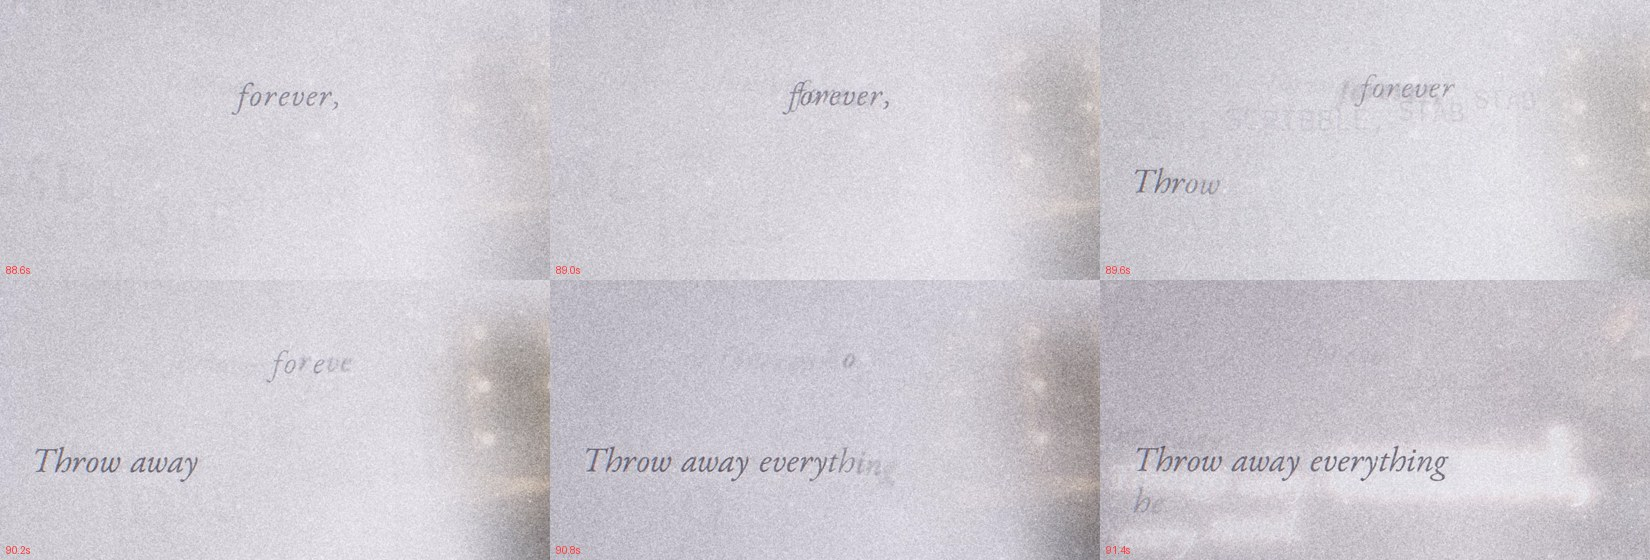
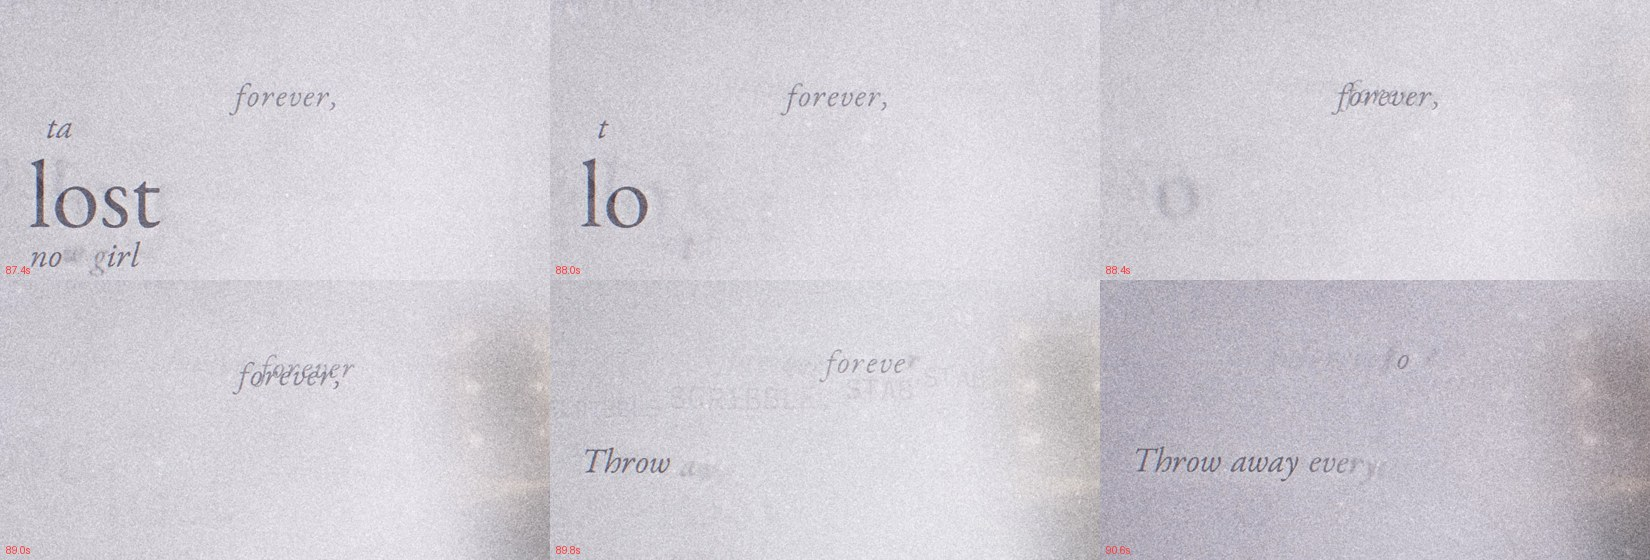
Fix the second 'forever' timing (it was 0.65 s late and cut short)
Whisper's word edges gave the first 'forever,' 2.2 s and squeezed the
second into 0.5 s before 'Throw'. Pitch tracking (voiced 86.62-87.54 and
88.19-89.25) and two tight Whisper re-runs agree on 86.5-87.6 and
88.1-89.2.

- align.py: word-level pins in overrides.json alongside line pins
- overrides.json: line 20 words 4-5 pinned to the consensus
- only those two words changed; chunk re-rendered for review

Claude-Session: https://claude.ai/code/session_013aPae8dR11r7xw8o95d9Yi

diff --git a/storyboard/index.html b/storyboard/index.html
@@ -150,7 +150,7 @@ ol.steps li::marker { font: 600 0.85rem var(--mono); color: var(--ink-2); }
   </video>
   <figcaption><b>Refrain I: Stay lost now girl (chunk)</b>
     <span class="tc">1:24.2 → 1:32.5 · bars 23–26</span>
-    <span class="note">Revised: the second &#x27;forever&#x27; peels off the first as a copy, drifts slowly, outlasts the rest of the line, and is the last thing unwritten, letter by letter, as &#x27;Throw away everything&#x27; arrives. The full Refrain I clip below has the old version of this moment. <a href="renders/refrain_forever_contact.jpg">Contact sheet</a></span></figcaption>
+    <span class="note">Revised: the second &#x27;forever&#x27; peels off the first as a copy, drifts slowly, outlasts the rest of the line, and is the last thing unwritten, letter by letter, as &#x27;Throw away everything&#x27; arrives. Timing corrected: the second &#x27;forever&#x27; is sung at 88.1 s and held ~1.1 s (it had been placed 0.65 s late). The full Refrain I clip below has the old version of this moment. <a href="renders/refrain_forever_contact.jpg">Contact sheet</a></span></figcaption>
 </figure>
 <figure class="render" id="render-refrain_i">
   <video controls playsinline preload="metadata" poster="renders/refrain_i_poster.jpg" width="1280" height="720">
@@ -631,7 +631,7 @@ ol.steps li::marker { font: 600 0.85rem var(--mono); color: var(--ink-2); }
 })();
 </script>
 <script>
-const D = {"duration":493.6209977324263,"loud_t":0.5,"loud":[-47.0,-80.9,-60.6,-44.5,-39.1,-36.3,-33.6,-30.7,-28.0,-27.2,-27.0,-26.6,-26.8,-26.0,-24.4,-24.1,-24.0,-23.0,-23.1,-21.6,-19.4,-18.7,-19.1,-21.8,-23.9,-24.4,-25.6,-25.4,-24.3,-24.4,-23.7,-23.2,-22.7,-23.0,-23.6,-22.5,-20.9,-20.0,-19.8,-19.4,-20.0,-20.2,-19.6,-19.3,-19.4,-19.2,-19.6,-21.1,-21.5,-21.8,-20.6,-19.3,-19.1,-19.4,-20.7,-20.8,-18.9,-18.8,-20.3,-19.6,-19.8,-19.6,-18.9,-20.0,-19.6,-19.3,-19.3,-20.2,-21.0,-20.3,-19.4,-19.6,-19.8,-18.8,-19.3,-19.7,-19.1,-19.8,-20.5,-20.8,-20.3,-20.5,-21.3,-20.9,-19.7,-20.1,-21.0,-19.7,-19.5,-19.1,-18.7,-18.6,-18.3,-19.2,-19.5,-19.6,-19.4,-19.4,-19.2,-18.7,-20.4,-20.7,-19.5,-19.4,-19.7,-18.3,-17.4,-19.4,-21.7,-22.3,-22.4,-22.1,-21.6,-21.0,-19.7,-19.1,-18.8,-18.9,-19.1,-18.2,-18.4,-19.2,-18.6,-18.2,-18.2,-18.9,-18.6,-17.8,-17.4,-17.2,-17.7,-18.1,-19.0,-18.8,-18.6,-18.7,-17.7,-18.1,-18.6,-18.9,-18.6,-17.8,-17.5,-17.6,-18.3,-18.1,-17.7,-17.6,-18.0,-18.4,-17.7,-18.0,-17.8,-17.4,-17.8,-17.6,-17.2,-17.6,-18.4,-17.7,-17.5,-17.8,-18.6,-18.9,-17.7,-17.5,-17.3,-16.9,-17.1,-17.7,-18.2,-18.1,-17.5,-17.8,-18.1,-17.3,-17.4,-17.7,-17.1,-17.1,-16.9,-17.8,-17.6,-17.2,-17.5,-17.5,-17.9,-17.7,-17.5,-17.0,-16.9,-17.4,-17.5,-18.4,-18.9,-18.3,-17.1,-17.1,-17.4,-16.6,-17.3,-17.6,-16.9,-16.1,-16.5,-17.4,-17.1,-17.2,-17.3,-17.0,-16.1,-16.2,-16.9,-16.7,-17.3,-17.4,-16.4,-15.7,-16.1,-17.4,-17.6,-18.0,-18.2,-16.4,-15.7,-15.9,-15.7,-16.2,-17.5,-18.1,-18.7,-18.6,-19.4,-18.0,-16.2,-17.6,-18.0,-18.1,-18.2,-22.3,-22.2,-17.0,-16.5,-17.2,-17.2,-16.7,-17.2,-17.2,-17.6,-18.2,-17.6,-18.1,-17.2,-18.1,-19.3,-17.9,-17.7,-17.0,-16.5,-15.8,-15.5,-16.1,-17.0,-17.5,-17.4,-17.9,-17.2,-17.6,-18.6,-17.1,-16.2,-16.2,-16.4,-15.6,-15.1,-16.2,-17.1,-17.0,-16.9,-17.4,-16.6,-16.3,-17.0,-17.3,-16.9,-16.6,-16.2,-15.3,-15.8,-16.2,-16.6,-16.9,-16.8,-16.9,-16.2,-16.4,-16.5,-15.5,-15.2,-15.5,-15.3,-14.5,-14.8,-15.4,-15.6,-15.6,-15.4,-15.8,-16.1,-15.5,-15.6,-16.1,-16.4,-16.1,-15.1,-14.9,-14.8,-15.8,-16.2,-15.5,-15.4,-15.7,-16.0,-15.8,-17.0,-17.1,-16.8,-16.7,-15.6,-15.5,-15.3,-15.5,-15.3,-15.6,-15.9,-15.7,-15.8,-15.8,-16.2,-16.1,-15.8,-15.9,-15.3,-15.2,-15.0,-14.9,-15.6,-15.6,-15.5,-15.4,-15.8,-16.2,-16.2,-16.6,-16.0,-15.4,-15.2,-15.3,-15.4,-15.2,-15.7,-15.6,-15.2,-15.3,-15.7,-16.2,-18.4,-22.2,-22.6,-21.9,-23.3,-25.0,-22.7,-20.3,-21.3,-21.5,-22.4,-24.0,-22.9,-21.5,-21.7,-22.4,-22.6,-22.2,-21.2,-21.2,-21.5,-21.8,-21.1,-19.8,-20.1,-18.7,-16.5,-16.1,-16.5,-16.8,-16.6,-15.9,-15.8,-16.2,-16.5,-16.9,-16.8,-16.2,-15.6,-15.7,-16.0,-16.0,-16.4,-16.4,-16.0,-15.9,-15.8,-16.1,-16.2,-16.5,-16.9,-16.2,-15.7,-15.9,-16.5,-16.6,-17.0,-16.9,-16.1,-16.2,-16.0,-16.4,-16.6,-16.6,-16.3,-15.6,-15.7,-15.9,-16.3,-16.7,-16.8,-16.7,-16.0,-15.9,-16.2,-16.2,-16.5,-16.4,-16.4,-15.9,-16.0,-16.4,-16.5,-16.8,-16.6,-16.3,-16.1,-15.8,-16.0,-16.2,-16.9,-16.7,-15.8,-15.8,-15.9,-16.6,-16.8,-16.7,-16.6,-16.1,-16.2,-16.1,-16.3,-16.6,-16.5,-16.5,-15.8,-15.7,-16.1,-16.5,-16.6,-16.6,-16.3,-15.3,-15.6,-16.1,-15.5,-15.8,-15.9,-15.4,-14.8,-14.8,-15.5,-15.8,-16.4,-16.5,-15.7,-15.3,-15.4,-16.0,-15.7,-15.6,-15.6,-14.7,-15.0,-15.4,-15.7,-16.3,-16.6,-16.5,-15.6,-15.6,-16.1,-16.0,-16.4,-16.4,-15.7,-15.3,-15.2,-16.1,-16.6,-16.2,-15.6,-15.4,-15.3,-15.5,-16.2,-16.5,-16.2,-15.4,-15.3,-15.3,-15.1,-15.6,-15.9,-15.8,-15.6,-15.8,-15.8,-15.8,-16.2,-16.7,-16.2,-15.4,-16.0,-17.4,-19.4,-19.4,-22.8,-25.1,-19.5,-15.9,-16.1,-16.4,-16.6,-17.0,-16.3,-15.5,-15.7,-16.1,-16.0,-16.4,-16.5,-16.6,-16.8,-17.4,-17.4,-16.3,-16.0,-17.4,-18.8,-18.2,-18.3,-17.4,-16.0,-16.8,-17.2,-17.4,-17.8,-18.0,-18.0,-16.8,-16.7,-17.7,-17.5,-17.2,-17.3,-17.6,-16.8,-16.8,-17.4,-17.3,-17.2,-17.3,-17.6,-16.7,-16.3,-16.9,-17.0,-17.6,-17.6,-17.6,-17.3,-17.0,-18.8,-18.8,-18.3,-18.5,-17.6,-16.7,-17.0,-17.3,-16.6,-16.7,-17.2,-16.9,-16.6,-17.1,-17.4,-17.6,-17.1,-16.7,-16.8,-17.3,-17.3,-16.9,-16.4,-16.5,-16.9,-17.0,-17.7,-17.3,-16.2,-17.6,-17.7,-17.0,-17.1,-17.0,-17.7,-17.4,-17.8,-17.6,-16.8,-16.7,-17.0,-17.6,-17.1,-16.7,-16.9,-16.5,-16.4,-17.1,-17.6,-17.1,-16.9,-16.9,-16.8,-17.3,-16.9,-16.8,-16.9,-16.7,-17.1,-17.4,-17.6,-17.3,-16.6,-16.3,-16.6,-16.6,-16.2,-16.8,-17.5,-17.5,-18.3,-18.6,-18.1,-17.7,-18.0,-18.7,-18.6,-18.6,-18.4,-17.3,-17.1,-17.8,-18.0,-17.8,-17.8,-18.2,-17.7,-18.2,-19.6,-18.8,-18.3,-18.4,-17.8,-16.8,-17.5,-18.3,-17.7,-18.0,-17.8,-17.6,-17.6,-17.7,-18.7,-18.4,-18.6,-18.7,-17.7,-17.2,-17.3,-17.8,-18.1,-18.4,-18.4,-17.5,-17.7,-18.6,-18.8,-18.3,-17.7,-17.7,-18.1,-18.6,-18.5,-17.5,-18.0,-18.9,-18.4,-18.1,-18.6,-18.5,-17.5,-18.6,-19.1,-18.0,-17.7,-18.1,-18.4,-18.0,-18.7,-18.8,-17.9,-18.1,-18.6,-18.1,-18.2,-18.8,-18.8,-18.0,-18.2,-18.6,-18.1,-18.8,-19.2,-18.6,-17.8,-18.7,-19.5,-18.3,-18.5,-19.1,-18.6,-18.6,-18.4,-18.6,-18.7,-18.7,-18.6,-17.8,-18.1,-18.3,-18.4,-18.6,-18.3,-18.5,-18.2,-18.1,-18.4,-17.6,-17.3,-17.7,-18.3,-18.3,-18.4,-18.8,-18.3,-18.0,-17.7,-17.0,-16.7,-17.2,-17.7,-17.6,-17.4,-17.3,-16.7,-16.8,-17.9,-17.6,-17.9,-18.8,-18.6,-18.3,-18.0,-18.3,-17.6,-17.3,-17.8,-18.4,-18.5,-18.6,-19.1,-18.7,-18.6,-18.5,-17.9,-17.7,-17.9,-19.2,-19.1,-18.7,-18.5,-17.9,-18.3,-17.9,-17.6,-18.0,-18.5,-18.3,-17.2,-17.2,-17.8,-17.6,-17.6,-18.0,-18.5,-18.2,-17.7,-18.1,-17.8,-18.7,-19.3,-17.8,-17.3,-18.2,-18.9,-17.7,-17.7,-18.5,-17.8,-17.8,-19.1,-19.6,-18.1,-18.2,-18.4,-17.8,-18.7,-18.6,-17.0,-17.0,-18.3,-18.4,-17.4,-16.6,-17.2,-18.0,-17.7,-17.3,-18.4,-18.3,-18.1,-18.4,-17.4,-17.2,-17.9,-18.9,-18.2,-17.9,-18.8,-18.5,-18.9,-19.0,-19.0,-18.4,-17.4,-18.1,-18.3,-19.0,-19.2,-18.9,-18.5,-17.4,-18.2,-18.4,-18.7,-19.2,-18.1,-17.5,-18.0,-21.7,-25.5,-22.3,-19.1,-21.2,-21.3,-19.6,-18.5,-17.5,-17.4,-17.3,-17.0,-17.5,-17.4,-17.2,-17.2,-17.0,-17.6,-17.8,-17.5,-17.5,-18.0,-18.1,-18.1,-18.1,-17.3,-17.0,-17.6,-17.7,-17.5,-17.2,-17.4,-17.4,-18.1,-18.9,-18.1,-18.2,-18.3,-17.5,-17.0,-17.6,-18.4,-17.8,-18.0,-18.4,-17.6,-17.5,-18.2,-18.3,-17.7,-17.8,-18.0,-17.5,-17.5,-17.3,-16.9,-17.5,-18.0,-17.5,-17.2,-18.7,-18.9,-17.1,-17.3,-17.2,-17.1,-17.0,-16.7,-17.0,-16.8,-16.8,-16.8,-16.7,-16.6,-16.3,-16.9,-17.0,-16.7,-16.7,-16.2,-16.3,-16.7,-16.6,-16.3,-16.7,-20.1,-27.7,-36.8,-26.0],"bars":[0.418,3.3672,6.828,10.3616,13.9019,20.0866,23.6284,27.166,30.705,34.2453,37.7775,41.3056,44.8364,48.3672,51.8966,55.4247,58.9432,62.4535,65.9583,69.4563,72.9503,76.4456,79.9436,83.4389,84.3103,87.7974,91.2804,94.7606,98.2423,101.7212,105.1932,106.9279,110.4013,113.898,116.5382,120.0677,123.5971,127.1156,130.6327,134.1458,137.6424,141.1268,144.6016,148.0764,151.5416,155.0014,158.4543,161.9045,165.3575,168.8063,172.2511,175.6876,179.1187,182.5498,183.4076,186.8428,190.2739,193.7063,196.2769,199.6971,203.12,206.5429,209.9617,213.3764,216.7911,220.2071,223.6136,227.0119,230.4089,233.8045,237.1973,240.5874,243.9748,247.3581,250.74,255.8019,259.1688,262.4565,264.5067,266.5774,269.8992,271.5341,276.0757,279.4877,282.9037,283.756,287.168,290.5745,293.9837,297.3998,300.8131,304.2251,307.6357,311.0477,314.4569,317.8648,321.2699,324.671,328.072,331.4676,334.0122,337.401,340.7856,344.173,347.5604,350.9437,354.3283,357.7075,361.0908,367.0132,370.3938,373.7757,377.1563,380.5368,383.9146,387.2952,390.673,394.0467,396.5832,399.961,403.332,406.7002,410.0767,413.4559,416.8378,417.686,421.0884,424.5086,427.9369,431.3653,434.7977,438.2288,441.6572,445.0883,448.5194,451.9491,452.8055,456.2325,459.6581,463.0865,466.5039,469.9036,473.2882,476.6715,480.0575,483.4449,486.8296,490.206,493.5634],"sections":[{"name":"Intro","start":0.0,"end":16.92,"world":"void","bar":0},{"name":"Verse A: Through eyes","start":16.92,"end":55.2,"world":"her","bar":5},{"name":"There comes a once","start":55.2,"end":84.15,"world":"memory","bar":15},{"name":"Refrain I: Stay lost now girl","start":84.15,"end":106.35,"world":"her","bar":24},{"name":"Break I","start":106.35,"end":116.47,"world":"institute","bar":31},{"name":"White Coats I","start":116.47,"end":151.81,"world":"institute","bar":34},{"name":"They brought a man","start":151.81,"end":183.43,"world":"memory","bar":45},{"name":"Spoken I: I can help you find","start":183.43,"end":195.57,"world":"memory","bar":55},{"name":"Break II","start":195.57,"end":208.42,"world":"memory","bar":58},{"name":"White Coats II","start":208.42,"end":252.73,"world":"institute","bar":62},{"name":"A gun and a bullet","start":252.73,"end":273.81,"world":"institute","bar":75},{"name":"Spoken II: I won't lose you","start":273.81,"end":283.79,"world":"memory","bar":82},{"name":"The Run","start":283.79,"end":318.0,"world":"run","bar":86},{"name":"But...","start":318.0,"end":332.45,"world":"void","bar":96},{"name":"White Coats III","start":332.45,"end":363.99,"world":"institute","bar":100},{"name":"The Cutting","start":363.99,"end":396.63,"world":"memory","bar":109},{"name":"Refrain II: Stay lost now girl","start":396.63,"end":417.57,"world":"her","bar":119},{"name":"Verse A reprise","start":417.57,"end":452.07,"world":"her","bar":125},{"name":"Outro","start":452.07,"end":493.621,"world":"void","bar":136}],"lines":[{"n":1,"s":16.92,"e":20.3,"x":"Through eyes that were hers and weren't","pin":true},{"n":2,"s":20.45,"e":24.02,"x":"Through years that weren't hers and were","pin":true},{"n":3,"s":24.02,"e":27.46,"x":"Left in rooms she couldn't leave","pin":false},{"n":4,"s":27.46,"e":30.86,"x":"Learning a self she couldn't learn","pin":false},{"n":5,"s":30.86,"e":35.28,"x":"And a voice came to her (sweet, so sweet)","pin":false},{"n":6,"s":35.28,"e":42.96,"x":"A hand, as ever as it was once (good, so good)","pin":false},{"n":7,"s":43.7,"e":46.96,"x":"She got lost inside him","pin":false},{"n":8,"s":46.96,"e":50.52,"x":"Lost and lost inside him","pin":false},{"n":9,"s":50.52,"e":54.04,"x":"Like she swore she never would.","pin":false},{"n":11,"s":55.2,"e":58.68,"x":"But there comes a once... once...","pin":false},{"n":12,"s":58.68,"e":64.7,"x":"She said \"no\" (once...). And she lost him for a lifetime.","pin":false},{"n":13,"s":64.7,"e":67.28,"x":"There comes a once... once...","pin":false},{"n":14,"s":67.28,"e":73.28,"x":"She said \"yes\" (once...).  And she lost him forever.","pin":false},{"n":15,"s":73.28,"e":75.12,"x":"Lost and lost.","pin":false},{"n":16,"s":75.38,"e":76.6,"x":"Lost to her.","pin":false},{"n":17,"s":76.6,"e":78.47,"x":"Lost to the world.","pin":false},{"n":18,"s":78.47,"e":84.15,"x":"Forever and ever.","pin":false},{"n":20,"s":84.15,"e":89.29,"x":"Stay lost now girl (forever, forever)","pin":false},{"n":21,"s":89.29,"e":92.49,"x":"Throw away everything he found","pin":false},{"n":22,"s":92.49,"e":97.75,"x":"So he never got lost inside you. (again, again)","pin":false},{"n":23,"s":97.75,"e":104.65,"x":"Forever again, forever again.","pin":false},{"n":24,"s":105.17,"e":106.35,"x":"Never again...","pin":false},{"n":26,"s":116.47,"e":118.69,"x":"The white coats said:","pin":false},{"n":27,"s":118.69,"e":123.05,"x":"We've found a girl who is very lost.","pin":false},{"n":28,"s":123.05,"e":126.91,"x":"Scribble scribble, stab stab the charts.","pin":false},{"n":29,"s":126.91,"e":130.23,"x":"Keep her safe in a nice white room.","pin":false},{"n":30,"s":130.23,"e":133.95,"x":"Scribble scribble, stab stab the charts.","pin":false},{"n":31,"s":133.95,"e":137.79,"x":"We\u2019ll find out HOW lost she really is.","pin":false},{"n":32,"s":137.79,"e":140.97,"x":"With time, with time...","pin":false},{"n":33,"s":141.35,"e":144.63,"x":"With time we can find anything.","pin":false},{"n":34,"s":144.63,"e":147.87,"x":"With time, with time...","pin":false},{"n":35,"s":147.87,"e":151.81,"x":"Even a girl who is very hard to find.","pin":false},{"n":37,"s":151.81,"e":153.39,"x":"They brought a man.","pin":false},{"n":38,"s":154.45,"e":158.85,"x":"A man who could find someone hard to find.","pin":false},{"n":39,"s":158.85,"e":164.09,"x":"And in the end, he found, oh he found...","pin":false},{"n":40,"s":164.09,"e":168.99,"x":"...something VERY hard to find (in her).","pin":false},{"n":41,"s":170.65,"e":176.19,"x":"And in the end, she found, oh she found...","pin":false},{"n":42,"s":176.19,"e":181.55,"x":"Her forever. And ever... (in him).","pin":false},{"n":44,"s":183.43,"e":188.85,"x":"\"I can help you find protecting, trusting and believing","pin":false},{"n":45,"s":190.63,"e":195.57,"x":"Even if they're very hard to find.\"","pin":false},{"n":47,"s":208.42,"e":212.26,"x":"But with time, with time,","pin":false},{"n":48,"s":213.12,"e":214.74,"x":"the white coats said:","pin":false},{"n":49,"s":214.74,"e":217.14,"x":"Hmm... this girl is too lost.","pin":false},{"n":50,"s":217.66,"e":222.26,"x":"Scribble scribble, stab stab the charts.","pin":false},{"n":51,"s":224.09,"e":229.23,"x":"This girl is too hard to find.","pin":false},{"n":52,"s":231.05,"e":235.91,"x":"Scribble scribble, stab stab the charts.","pin":false},{"n":53,"s":237.09,"e":240.37,"x":"With time, with time...","pin":false},{"n":54,"s":240.37,"e":244.23,"x":"We found she isn't worth the time.","pin":false},{"n":55,"s":244.23,"e":247.19,"x":"With time, with time...","pin":false},{"n":56,"s":247.19,"e":251.25,"x":"This girl who is very hard to find.","pin":false},{"n":58,"s":252.73,"e":256.03,"x":"And with time, and with time,","pin":false},{"n":59,"s":256.03,"e":260.29,"x":"The white coats brought the man a gun and a bullet","pin":false},{"n":60,"s":260.29,"e":264.37,"x":"And said \"go and find that girl.\"","pin":false},{"n":61,"s":264.37,"e":266.05,"x":"And he did,","pin":false},{"n":62,"s":266.73,"e":267.79,"x":"he did...","pin":false},{"n":63,"s":267.79,"e":270.27,"x":"He found her,","pin":false},{"n":64,"s":270.31,"e":272.61,"x":"he found her...","pin":false},{"n":66,"s":273.81,"e":275.99,"x":"\"I won't lose you.","pin":false},{"n":67,"s":275.99,"e":279.69,"x":"Together, we'll find you the time.\"","pin":false},{"n":69,"s":283.79,"e":288.57,"x":"And they ran... ran... ran...","pin":false},{"n":70,"s":289.15,"e":291.25,"x":"Forever and ever.","pin":false},{"n":71,"s":291.25,"e":295.11,"x":"Through every tunnel, every motel.","pin":false},{"n":72,"s":295.11,"e":298.65,"x":"Lost in diners, lost in alleys...","pin":false},{"n":73,"s":298.65,"e":300.51,"x":"Lost in each other.","pin":false},{"n":74,"s":300.51,"e":302.91,"x":"And found. (And found...)","pin":false},{"n":75,"s":303.81,"e":307.19,"x":"Lost and found, found and lost...","pin":false},{"n":76,"s":307.87,"e":312.42,"x":"Forever and ever and ever.","pin":false},{"n":78,"s":318.0,"e":319.4,"x":"But\u2026","pin":true},{"n":80,"s":319.58,"e":324.27,"x":"But forever... always comes to an end,","pin":false},{"n":81,"s":324.39,"e":327.41,"x":"when the coats... come round the bend.","pin":false},{"n":83,"s":332.45,"e":334.104,"x":"And the coats said:","pin":false},{"n":84,"s":334.45,"e":337.15,"x":"Hmm... this man is too lost.","pin":false},{"n":85,"s":337.17,"e":340.03,"x":"Scribble scribble, stab stab the charts.","pin":false},{"n":86,"s":340.13,"e":343.63,"x":"We\u2019ll have to cut out his something hard to find.","pin":false},{"n":87,"s":343.99,"e":346.91,"x":"Scribble scribble, stab stab the charts.","pin":false},{"n":88,"s":347.13,"e":348.53,"x":"With time, with time","pin":false},{"n":89,"s":348.57,"e":351.27,"x":"We'll see how lost this girl can be.","pin":false},{"n":90,"s":351.93,"e":353.55,"x":"With time, with time","pin":false},{"n":91,"s":353.65,"e":357.73,"x":"We'll make her a girl who can find ANYTHING.","pin":false},{"n":92,"s":357.73,"e":361.49,"x":"Except... something hard to find.","pin":false},{"n":94,"s":363.99,"e":367.35,"x":"They cut away his protecting.","pin":false},{"n":95,"s":367.35,"e":370.75,"x":"They cut away his trusting.","pin":false},{"n":96,"s":370.75,"e":374.05,"x":"They cut away his believing.","pin":false},{"n":97,"s":374.05,"e":377.31,"x":"But left him the gun\u2026 and the bullet.","pin":false},{"n":99,"s":377.31,"e":379.67,"x":"They took her arms to hug,","pin":false},{"n":100,"s":379.67,"e":381.41,"x":"They took her legs to run,","pin":false},{"n":101,"s":381.41,"e":384.91,"x":"Her eyes to see and ears to hear...","pin":false},{"n":102,"s":384.91,"e":388.43,"x":"But left her the years (and years and years)...","pin":false},{"n":103,"s":388.43,"e":390.89,"x":"Alone, with time... with time...","pin":false},{"n":104,"s":390.89,"e":394.49,"x":"And all her agains and agains and agains...","pin":false},{"n":105,"s":394.49,"e":396.63,"x":"Of him...  and her...","pin":false},{"n":107,"s":396.63,"e":401.25,"x":"Stay lost now girl (forever, forever)","pin":false},{"n":108,"s":401.71,"e":405.61,"x":"Throw away everything he could find","pin":false},{"n":109,"s":405.61,"e":410.49,"x":"So he never got lost inside you. (again, again)","pin":false},{"n":110,"s":410.49,"e":415.57,"x":"Forever again, forever again.","pin":false},{"n":111,"s":415.81,"e":417.57,"x":"Never again...","pin":false},{"n":113,"s":417.57,"e":421.11,"x":"Through eyes that were hers and weren't","pin":false},{"n":114,"s":421.33,"e":425.07,"x":"Through years that weren't hers and were","pin":false},{"n":115,"s":425.07,"e":428.27,"x":"Left in rooms she couldn't leave","pin":false},{"n":116,"s":428.27,"e":431.41,"x":"Learning a self she couldn't learn","pin":false},{"n":117,"s":431.41,"e":435.77,"x":"And a voice came to her (sweet, so sweet)","pin":false},{"n":118,"s":435.77,"e":441.01,"x":"A hand, as ever as it was once (good, so good)","pin":false},{"n":119,"s":441.01,"e":444.47,"x":"She got lost inside him","pin":false},{"n":120,"s":444.55,"e":448.05,"x":"Lost and lost inside him","pin":false},{"n":121,"s":448.05,"e":452.07,"x":"Like she swore she never would.","pin":false}],"frames":[{"key":"A","t":46.3,"section":"Verse A: Through eyes"},{"key":"B","t":125.9,"section":"White Coats I"},{"key":"C","t":368.3,"section":"The Cutting"}]};
+const D = {"duration":493.6209977324263,"loud_t":0.5,"loud":[-47.0,-80.9,-60.6,-44.5,-39.1,-36.3,-33.6,-30.7,-28.0,-27.2,-27.0,-26.6,-26.8,-26.0,-24.4,-24.1,-24.0,-23.0,-23.1,-21.6,-19.4,-18.7,-19.1,-21.8,-23.9,-24.4,-25.6,-25.4,-24.3,-24.4,-23.7,-23.2,-22.7,-23.0,-23.6,-22.5,-20.9,-20.0,-19.8,-19.4,-20.0,-20.2,-19.6,-19.3,-19.4,-19.2,-19.6,-21.1,-21.5,-21.8,-20.6,-19.3,-19.1,-19.4,-20.7,-20.8,-18.9,-18.8,-20.3,-19.6,-19.8,-19.6,-18.9,-20.0,-19.6,-19.3,-19.3,-20.2,-21.0,-20.3,-19.4,-19.6,-19.8,-18.8,-19.3,-19.7,-19.1,-19.8,-20.5,-20.8,-20.3,-20.5,-21.3,-20.9,-19.7,-20.1,-21.0,-19.7,-19.5,-19.1,-18.7,-18.6,-18.3,-19.2,-19.5,-19.6,-19.4,-19.4,-19.2,-18.7,-20.4,-20.7,-19.5,-19.4,-19.7,-18.3,-17.4,-19.4,-21.7,-22.3,-22.4,-22.1,-21.6,-21.0,-19.7,-19.1,-18.8,-18.9,-19.1,-18.2,-18.4,-19.2,-18.6,-18.2,-18.2,-18.9,-18.6,-17.8,-17.4,-17.2,-17.7,-18.1,-19.0,-18.8,-18.6,-18.7,-17.7,-18.1,-18.6,-18.9,-18.6,-17.8,-17.5,-17.6,-18.3,-18.1,-17.7,-17.6,-18.0,-18.4,-17.7,-18.0,-17.8,-17.4,-17.8,-17.6,-17.2,-17.6,-18.4,-17.7,-17.5,-17.8,-18.6,-18.9,-17.7,-17.5,-17.3,-16.9,-17.1,-17.7,-18.2,-18.1,-17.5,-17.8,-18.1,-17.3,-17.4,-17.7,-17.1,-17.1,-16.9,-17.8,-17.6,-17.2,-17.5,-17.5,-17.9,-17.7,-17.5,-17.0,-16.9,-17.4,-17.5,-18.4,-18.9,-18.3,-17.1,-17.1,-17.4,-16.6,-17.3,-17.6,-16.9,-16.1,-16.5,-17.4,-17.1,-17.2,-17.3,-17.0,-16.1,-16.2,-16.9,-16.7,-17.3,-17.4,-16.4,-15.7,-16.1,-17.4,-17.6,-18.0,-18.2,-16.4,-15.7,-15.9,-15.7,-16.2,-17.5,-18.1,-18.7,-18.6,-19.4,-18.0,-16.2,-17.6,-18.0,-18.1,-18.2,-22.3,-22.2,-17.0,-16.5,-17.2,-17.2,-16.7,-17.2,-17.2,-17.6,-18.2,-17.6,-18.1,-17.2,-18.1,-19.3,-17.9,-17.7,-17.0,-16.5,-15.8,-15.5,-16.1,-17.0,-17.5,-17.4,-17.9,-17.2,-17.6,-18.6,-17.1,-16.2,-16.2,-16.4,-15.6,-15.1,-16.2,-17.1,-17.0,-16.9,-17.4,-16.6,-16.3,-17.0,-17.3,-16.9,-16.6,-16.2,-15.3,-15.8,-16.2,-16.6,-16.9,-16.8,-16.9,-16.2,-16.4,-16.5,-15.5,-15.2,-15.5,-15.3,-14.5,-14.8,-15.4,-15.6,-15.6,-15.4,-15.8,-16.1,-15.5,-15.6,-16.1,-16.4,-16.1,-15.1,-14.9,-14.8,-15.8,-16.2,-15.5,-15.4,-15.7,-16.0,-15.8,-17.0,-17.1,-16.8,-16.7,-15.6,-15.5,-15.3,-15.5,-15.3,-15.6,-15.9,-15.7,-15.8,-15.8,-16.2,-16.1,-15.8,-15.9,-15.3,-15.2,-15.0,-14.9,-15.6,-15.6,-15.5,-15.4,-15.8,-16.2,-16.2,-16.6,-16.0,-15.4,-15.2,-15.3,-15.4,-15.2,-15.7,-15.6,-15.2,-15.3,-15.7,-16.2,-18.4,-22.2,-22.6,-21.9,-23.3,-25.0,-22.7,-20.3,-21.3,-21.5,-22.4,-24.0,-22.9,-21.5,-21.7,-22.4,-22.6,-22.2,-21.2,-21.2,-21.5,-21.8,-21.1,-19.8,-20.1,-18.7,-16.5,-16.1,-16.5,-16.8,-16.6,-15.9,-15.8,-16.2,-16.5,-16.9,-16.8,-16.2,-15.6,-15.7,-16.0,-16.0,-16.4,-16.4,-16.0,-15.9,-15.8,-16.1,-16.2,-16.5,-16.9,-16.2,-15.7,-15.9,-16.5,-16.6,-17.0,-16.9,-16.1,-16.2,-16.0,-16.4,-16.6,-16.6,-16.3,-15.6,-15.7,-15.9,-16.3,-16.7,-16.8,-16.7,-16.0,-15.9,-16.2,-16.2,-16.5,-16.4,-16.4,-15.9,-16.0,-16.4,-16.5,-16.8,-16.6,-16.3,-16.1,-15.8,-16.0,-16.2,-16.9,-16.7,-15.8,-15.8,-15.9,-16.6,-16.8,-16.7,-16.6,-16.1,-16.2,-16.1,-16.3,-16.6,-16.5,-16.5,-15.8,-15.7,-16.1,-16.5,-16.6,-16.6,-16.3,-15.3,-15.6,-16.1,-15.5,-15.8,-15.9,-15.4,-14.8,-14.8,-15.5,-15.8,-16.4,-16.5,-15.7,-15.3,-15.4,-16.0,-15.7,-15.6,-15.6,-14.7,-15.0,-15.4,-15.7,-16.3,-16.6,-16.5,-15.6,-15.6,-16.1,-16.0,-16.4,-16.4,-15.7,-15.3,-15.2,-16.1,-16.6,-16.2,-15.6,-15.4,-15.3,-15.5,-16.2,-16.5,-16.2,-15.4,-15.3,-15.3,-15.1,-15.6,-15.9,-15.8,-15.6,-15.8,-15.8,-15.8,-16.2,-16.7,-16.2,-15.4,-16.0,-17.4,-19.4,-19.4,-22.8,-25.1,-19.5,-15.9,-16.1,-16.4,-16.6,-17.0,-16.3,-15.5,-15.7,-16.1,-16.0,-16.4,-16.5,-16.6,-16.8,-17.4,-17.4,-16.3,-16.0,-17.4,-18.8,-18.2,-18.3,-17.4,-16.0,-16.8,-17.2,-17.4,-17.8,-18.0,-18.0,-16.8,-16.7,-17.7,-17.5,-17.2,-17.3,-17.6,-16.8,-16.8,-17.4,-17.3,-17.2,-17.3,-17.6,-16.7,-16.3,-16.9,-17.0,-17.6,-17.6,-17.6,-17.3,-17.0,-18.8,-18.8,-18.3,-18.5,-17.6,-16.7,-17.0,-17.3,-16.6,-16.7,-17.2,-16.9,-16.6,-17.1,-17.4,-17.6,-17.1,-16.7,-16.8,-17.3,-17.3,-16.9,-16.4,-16.5,-16.9,-17.0,-17.7,-17.3,-16.2,-17.6,-17.7,-17.0,-17.1,-17.0,-17.7,-17.4,-17.8,-17.6,-16.8,-16.7,-17.0,-17.6,-17.1,-16.7,-16.9,-16.5,-16.4,-17.1,-17.6,-17.1,-16.9,-16.9,-16.8,-17.3,-16.9,-16.8,-16.9,-16.7,-17.1,-17.4,-17.6,-17.3,-16.6,-16.3,-16.6,-16.6,-16.2,-16.8,-17.5,-17.5,-18.3,-18.6,-18.1,-17.7,-18.0,-18.7,-18.6,-18.6,-18.4,-17.3,-17.1,-17.8,-18.0,-17.8,-17.8,-18.2,-17.7,-18.2,-19.6,-18.8,-18.3,-18.4,-17.8,-16.8,-17.5,-18.3,-17.7,-18.0,-17.8,-17.6,-17.6,-17.7,-18.7,-18.4,-18.6,-18.7,-17.7,-17.2,-17.3,-17.8,-18.1,-18.4,-18.4,-17.5,-17.7,-18.6,-18.8,-18.3,-17.7,-17.7,-18.1,-18.6,-18.5,-17.5,-18.0,-18.9,-18.4,-18.1,-18.6,-18.5,-17.5,-18.6,-19.1,-18.0,-17.7,-18.1,-18.4,-18.0,-18.7,-18.8,-17.9,-18.1,-18.6,-18.1,-18.2,-18.8,-18.8,-18.0,-18.2,-18.6,-18.1,-18.8,-19.2,-18.6,-17.8,-18.7,-19.5,-18.3,-18.5,-19.1,-18.6,-18.6,-18.4,-18.6,-18.7,-18.7,-18.6,-17.8,-18.1,-18.3,-18.4,-18.6,-18.3,-18.5,-18.2,-18.1,-18.4,-17.6,-17.3,-17.7,-18.3,-18.3,-18.4,-18.8,-18.3,-18.0,-17.7,-17.0,-16.7,-17.2,-17.7,-17.6,-17.4,-17.3,-16.7,-16.8,-17.9,-17.6,-17.9,-18.8,-18.6,-18.3,-18.0,-18.3,-17.6,-17.3,-17.8,-18.4,-18.5,-18.6,-19.1,-18.7,-18.6,-18.5,-17.9,-17.7,-17.9,-19.2,-19.1,-18.7,-18.5,-17.9,-18.3,-17.9,-17.6,-18.0,-18.5,-18.3,-17.2,-17.2,-17.8,-17.6,-17.6,-18.0,-18.5,-18.2,-17.7,-18.1,-17.8,-18.7,-19.3,-17.8,-17.3,-18.2,-18.9,-17.7,-17.7,-18.5,-17.8,-17.8,-19.1,-19.6,-18.1,-18.2,-18.4,-17.8,-18.7,-18.6,-17.0,-17.0,-18.3,-18.4,-17.4,-16.6,-17.2,-18.0,-17.7,-17.3,-18.4,-18.3,-18.1,-18.4,-17.4,-17.2,-17.9,-18.9,-18.2,-17.9,-18.8,-18.5,-18.9,-19.0,-19.0,-18.4,-17.4,-18.1,-18.3,-19.0,-19.2,-18.9,-18.5,-17.4,-18.2,-18.4,-18.7,-19.2,-18.1,-17.5,-18.0,-21.7,-25.5,-22.3,-19.1,-21.2,-21.3,-19.6,-18.5,-17.5,-17.4,-17.3,-17.0,-17.5,-17.4,-17.2,-17.2,-17.0,-17.6,-17.8,-17.5,-17.5,-18.0,-18.1,-18.1,-18.1,-17.3,-17.0,-17.6,-17.7,-17.5,-17.2,-17.4,-17.4,-18.1,-18.9,-18.1,-18.2,-18.3,-17.5,-17.0,-17.6,-18.4,-17.8,-18.0,-18.4,-17.6,-17.5,-18.2,-18.3,-17.7,-17.8,-18.0,-17.5,-17.5,-17.3,-16.9,-17.5,-18.0,-17.5,-17.2,-18.7,-18.9,-17.1,-17.3,-17.2,-17.1,-17.0,-16.7,-17.0,-16.8,-16.8,-16.8,-16.7,-16.6,-16.3,-16.9,-17.0,-16.7,-16.7,-16.2,-16.3,-16.7,-16.6,-16.3,-16.7,-20.1,-27.7,-36.8,-26.0],"bars":[0.418,3.3672,6.828,10.3616,13.9019,20.0866,23.6284,27.166,30.705,34.2453,37.7775,41.3056,44.8364,48.3672,51.8966,55.4247,58.9432,62.4535,65.9583,69.4563,72.9503,76.4456,79.9436,83.4389,84.3103,87.7974,91.2804,94.7606,98.2423,101.7212,105.1932,106.9279,110.4013,113.898,116.5382,120.0677,123.5971,127.1156,130.6327,134.1458,137.6424,141.1268,144.6016,148.0764,151.5416,155.0014,158.4543,161.9045,165.3575,168.8063,172.2511,175.6876,179.1187,182.5498,183.4076,186.8428,190.2739,193.7063,196.2769,199.6971,203.12,206.5429,209.9617,213.3764,216.7911,220.2071,223.6136,227.0119,230.4089,233.8045,237.1973,240.5874,243.9748,247.3581,250.74,255.8019,259.1688,262.4565,264.5067,266.5774,269.8992,271.5341,276.0757,279.4877,282.9037,283.756,287.168,290.5745,293.9837,297.3998,300.8131,304.2251,307.6357,311.0477,314.4569,317.8648,321.2699,324.671,328.072,331.4676,334.0122,337.401,340.7856,344.173,347.5604,350.9437,354.3283,357.7075,361.0908,367.0132,370.3938,373.7757,377.1563,380.5368,383.9146,387.2952,390.673,394.0467,396.5832,399.961,403.332,406.7002,410.0767,413.4559,416.8378,417.686,421.0884,424.5086,427.9369,431.3653,434.7977,438.2288,441.6572,445.0883,448.5194,451.9491,452.8055,456.2325,459.6581,463.0865,466.5039,469.9036,473.2882,476.6715,480.0575,483.4449,486.8296,490.206,493.5634],"sections":[{"name":"Intro","start":0.0,"end":16.92,"world":"void","bar":0},{"name":"Verse A: Through eyes","start":16.92,"end":55.2,"world":"her","bar":5},{"name":"There comes a once","start":55.2,"end":84.15,"world":"memory","bar":15},{"name":"Refrain I: Stay lost now girl","start":84.15,"end":106.35,"world":"her","bar":24},{"name":"Break I","start":106.35,"end":116.47,"world":"institute","bar":31},{"name":"White Coats I","start":116.47,"end":151.81,"world":"institute","bar":34},{"name":"They brought a man","start":151.81,"end":183.43,"world":"memory","bar":45},{"name":"Spoken I: I can help you find","start":183.43,"end":195.57,"world":"memory","bar":55},{"name":"Break II","start":195.57,"end":208.42,"world":"memory","bar":58},{"name":"White Coats II","start":208.42,"end":252.73,"world":"institute","bar":62},{"name":"A gun and a bullet","start":252.73,"end":273.81,"world":"institute","bar":75},{"name":"Spoken II: I won't lose you","start":273.81,"end":283.79,"world":"memory","bar":82},{"name":"The Run","start":283.79,"end":318.0,"world":"run","bar":86},{"name":"But...","start":318.0,"end":332.45,"world":"void","bar":96},{"name":"White Coats III","start":332.45,"end":363.99,"world":"institute","bar":100},{"name":"The Cutting","start":363.99,"end":396.63,"world":"memory","bar":109},{"name":"Refrain II: Stay lost now girl","start":396.63,"end":417.57,"world":"her","bar":119},{"name":"Verse A reprise","start":417.57,"end":452.07,"world":"her","bar":125},{"name":"Outro","start":452.07,"end":493.621,"world":"void","bar":136}],"lines":[{"n":1,"s":16.92,"e":20.3,"x":"Through eyes that were hers and weren't","pin":true},{"n":2,"s":20.45,"e":24.02,"x":"Through years that weren't hers and were","pin":true},{"n":3,"s":24.02,"e":27.46,"x":"Left in rooms she couldn't leave","pin":false},{"n":4,"s":27.46,"e":30.86,"x":"Learning a self she couldn't learn","pin":false},{"n":5,"s":30.86,"e":35.28,"x":"And a voice came to her (sweet, so sweet)","pin":false},{"n":6,"s":35.28,"e":42.96,"x":"A hand, as ever as it was once (good, so good)","pin":false},{"n":7,"s":43.7,"e":46.96,"x":"She got lost inside him","pin":false},{"n":8,"s":46.96,"e":50.52,"x":"Lost and lost inside him","pin":false},{"n":9,"s":50.52,"e":54.04,"x":"Like she swore she never would.","pin":false},{"n":11,"s":55.2,"e":58.68,"x":"But there comes a once... once...","pin":false},{"n":12,"s":58.68,"e":64.7,"x":"She said \"no\" (once...). And she lost him for a lifetime.","pin":false},{"n":13,"s":64.7,"e":67.28,"x":"There comes a once... once...","pin":false},{"n":14,"s":67.28,"e":73.28,"x":"She said \"yes\" (once...).  And she lost him forever.","pin":false},{"n":15,"s":73.28,"e":75.12,"x":"Lost and lost.","pin":false},{"n":16,"s":75.38,"e":76.6,"x":"Lost to her.","pin":false},{"n":17,"s":76.6,"e":78.47,"x":"Lost to the world.","pin":false},{"n":18,"s":78.47,"e":84.15,"x":"Forever and ever.","pin":false},{"n":20,"s":84.15,"e":89.2,"x":"Stay lost now girl (forever, forever)","pin":true},{"n":21,"s":89.29,"e":92.49,"x":"Throw away everything he found","pin":false},{"n":22,"s":92.49,"e":97.75,"x":"So he never got lost inside you. (again, again)","pin":false},{"n":23,"s":97.75,"e":104.65,"x":"Forever again, forever again.","pin":false},{"n":24,"s":105.17,"e":106.35,"x":"Never again...","pin":false},{"n":26,"s":116.47,"e":118.69,"x":"The white coats said:","pin":false},{"n":27,"s":118.69,"e":123.05,"x":"We've found a girl who is very lost.","pin":false},{"n":28,"s":123.05,"e":126.91,"x":"Scribble scribble, stab stab the charts.","pin":false},{"n":29,"s":126.91,"e":130.23,"x":"Keep her safe in a nice white room.","pin":false},{"n":30,"s":130.23,"e":133.95,"x":"Scribble scribble, stab stab the charts.","pin":false},{"n":31,"s":133.95,"e":137.79,"x":"We\u2019ll find out HOW lost she really is.","pin":false},{"n":32,"s":137.79,"e":140.97,"x":"With time, with time...","pin":false},{"n":33,"s":141.35,"e":144.63,"x":"With time we can find anything.","pin":false},{"n":34,"s":144.63,"e":147.87,"x":"With time, with time...","pin":false},{"n":35,"s":147.87,"e":151.81,"x":"Even a girl who is very hard to find.","pin":false},{"n":37,"s":151.81,"e":153.39,"x":"They brought a man.","pin":false},{"n":38,"s":154.45,"e":158.85,"x":"A man who could find someone hard to find.","pin":false},{"n":39,"s":158.85,"e":164.09,"x":"And in the end, he found, oh he found...","pin":false},{"n":40,"s":164.09,"e":168.99,"x":"...something VERY hard to find (in her).","pin":false},{"n":41,"s":170.65,"e":176.19,"x":"And in the end, she found, oh she found...","pin":false},{"n":42,"s":176.19,"e":181.55,"x":"Her forever. And ever... (in him).","pin":false},{"n":44,"s":183.43,"e":188.85,"x":"\"I can help you find protecting, trusting and believing","pin":false},{"n":45,"s":190.63,"e":195.57,"x":"Even if they're very hard to find.\"","pin":false},{"n":47,"s":208.42,"e":212.26,"x":"But with time, with time,","pin":false},{"n":48,"s":213.12,"e":214.74,"x":"the white coats said:","pin":false},{"n":49,"s":214.74,"e":217.14,"x":"Hmm... this girl is too lost.","pin":false},{"n":50,"s":217.66,"e":222.26,"x":"Scribble scribble, stab stab the charts.","pin":false},{"n":51,"s":224.09,"e":229.23,"x":"This girl is too hard to find.","pin":false},{"n":52,"s":231.05,"e":235.91,"x":"Scribble scribble, stab stab the charts.","pin":false},{"n":53,"s":237.09,"e":240.37,"x":"With time, with time...","pin":false},{"n":54,"s":240.37,"e":244.23,"x":"We found she isn't worth the time.","pin":false},{"n":55,"s":244.23,"e":247.19,"x":"With time, with time...","pin":false},{"n":56,"s":247.19,"e":251.25,"x":"This girl who is very hard to find.","pin":false},{"n":58,"s":252.73,"e":256.03,"x":"And with time, and with time,","pin":false},{"n":59,"s":256.03,"e":260.29,"x":"The white coats brought the man a gun and a bullet","pin":false},{"n":60,"s":260.29,"e":264.37,"x":"And said \"go and find that girl.\"","pin":false},{"n":61,"s":264.37,"e":266.05,"x":"And he did,","pin":false},{"n":62,"s":266.73,"e":267.79,"x":"he did...","pin":false},{"n":63,"s":267.79,"e":270.27,"x":"He found her,","pin":false},{"n":64,"s":270.31,"e":272.61,"x":"he found her...","pin":false},{"n":66,"s":273.81,"e":275.99,"x":"\"I won't lose you.","pin":false},{"n":67,"s":275.99,"e":279.69,"x":"Together, we'll find you the time.\"","pin":false},{"n":69,"s":283.79,"e":288.57,"x":"And they ran... ran... ran...","pin":false},{"n":70,"s":289.15,"e":291.25,"x":"Forever and ever.","pin":false},{"n":71,"s":291.25,"e":295.11,"x":"Through every tunnel, every motel.","pin":false},{"n":72,"s":295.11,"e":298.65,"x":"Lost in diners, lost in alleys...","pin":false},{"n":73,"s":298.65,"e":300.51,"x":"Lost in each other.","pin":false},{"n":74,"s":300.51,"e":302.91,"x":"And found. (And found...)","pin":false},{"n":75,"s":303.81,"e":307.19,"x":"Lost and found, found and lost...","pin":false},{"n":76,"s":307.87,"e":312.42,"x":"Forever and ever and ever.","pin":false},{"n":78,"s":318.0,"e":319.4,"x":"But\u2026","pin":true},{"n":80,"s":319.58,"e":324.27,"x":"But forever... always comes to an end,","pin":false},{"n":81,"s":324.39,"e":327.41,"x":"when the coats... come round the bend.","pin":false},{"n":83,"s":332.45,"e":334.104,"x":"And the coats said:","pin":false},{"n":84,"s":334.45,"e":337.15,"x":"Hmm... this man is too lost.","pin":false},{"n":85,"s":337.17,"e":340.03,"x":"Scribble scribble, stab stab the charts.","pin":false},{"n":86,"s":340.13,"e":343.63,"x":"We\u2019ll have to cut out his something hard to find.","pin":false},{"n":87,"s":343.99,"e":346.91,"x":"Scribble scribble, stab stab the charts.","pin":false},{"n":88,"s":347.13,"e":348.53,"x":"With time, with time","pin":false},{"n":89,"s":348.57,"e":351.27,"x":"We'll see how lost this girl can be.","pin":false},{"n":90,"s":351.93,"e":353.55,"x":"With time, with time","pin":false},{"n":91,"s":353.65,"e":357.73,"x":"We'll make her a girl who can find ANYTHING.","pin":false},{"n":92,"s":357.73,"e":361.49,"x":"Except... something hard to find.","pin":false},{"n":94,"s":363.99,"e":367.35,"x":"They cut away his protecting.","pin":false},{"n":95,"s":367.35,"e":370.75,"x":"They cut away his trusting.","pin":false},{"n":96,"s":370.75,"e":374.05,"x":"They cut away his believing.","pin":false},{"n":97,"s":374.05,"e":377.31,"x":"But left him the gun\u2026 and the bullet.","pin":false},{"n":99,"s":377.31,"e":379.67,"x":"They took her arms to hug,","pin":false},{"n":100,"s":379.67,"e":381.41,"x":"They took her legs to run,","pin":false},{"n":101,"s":381.41,"e":384.91,"x":"Her eyes to see and ears to hear...","pin":false},{"n":102,"s":384.91,"e":388.43,"x":"But left her the years (and years and years)...","pin":false},{"n":103,"s":388.43,"e":390.89,"x":"Alone, with time... with time...","pin":false},{"n":104,"s":390.89,"e":394.49,"x":"And all her agains and agains and agains...","pin":false},{"n":105,"s":394.49,"e":396.63,"x":"Of him...  and her...","pin":false},{"n":107,"s":396.63,"e":401.25,"x":"Stay lost now girl (forever, forever)","pin":false},{"n":108,"s":401.71,"e":405.61,"x":"Throw away everything he could find","pin":false},{"n":109,"s":405.61,"e":410.49,"x":"So he never got lost inside you. (again, again)","pin":false},{"n":110,"s":410.49,"e":415.57,"x":"Forever again, forever again.","pin":false},{"n":111,"s":415.81,"e":417.57,"x":"Never again...","pin":false},{"n":113,"s":417.57,"e":421.11,"x":"Through eyes that were hers and weren't","pin":false},{"n":114,"s":421.33,"e":425.07,"x":"Through years that weren't hers and were","pin":false},{"n":115,"s":425.07,"e":428.27,"x":"Left in rooms she couldn't leave","pin":false},{"n":116,"s":428.27,"e":431.41,"x":"Learning a self she couldn't learn","pin":false},{"n":117,"s":431.41,"e":435.77,"x":"And a voice came to her (sweet, so sweet)","pin":false},{"n":118,"s":435.77,"e":441.01,"x":"A hand, as ever as it was once (good, so good)","pin":false},{"n":119,"s":441.01,"e":444.47,"x":"She got lost inside him","pin":false},{"n":120,"s":444.55,"e":448.05,"x":"Lost and lost inside him","pin":false},{"n":121,"s":448.05,"e":452.07,"x":"Like she swore she never would.","pin":false}],"frames":[{"key":"A","t":46.3,"section":"Verse A: Through eyes"},{"key":"B","t":125.9,"section":"White Coats I"},{"key":"C","t":368.3,"section":"The Cutting"}]};
 (function () {
   const cv = document.getElementById('tl'), ro = document.getElementById('readout');
   const css = n => getComputedStyle(document.documentElement).getPropertyValue(n).trim();

diff --git a/storyboard/spec.py b/storyboard/spec.py
@@ -203,7 +203,7 @@ STYLE_FRAMES = [
 # Sections built so far: (slug, section name, note shown under the player)
 RENDERS = [
     ("refrain_forever", "Refrain I: Stay lost now girl",
-     "Revised: the second 'forever' peels off the first as a copy, drifts slowly, outlasts the rest of the line, and is the last thing unwritten, letter by letter, as 'Throw away everything' arrives. The full Refrain I clip below has the old version of this moment.",
+     "Revised: the second 'forever' peels off the first as a copy, drifts slowly, outlasts the rest of the line, and is the last thing unwritten, letter by letter, as 'Throw away everything' arrives. Timing corrected: the second 'forever' is sung at 88.1 s and held ~1.1 s (it had been placed 0.65 s late). The full Refrain I clip below has the old version of this moment.",
      (84.15, 92.5)),
     ("refrain_i", "Refrain I: Stay lost now girl",
      "Rebuilt as prophecy: she sees the future and tries to unmake it. Words appear faintly before they are sung; 'stay lost' is unwritten letter by letter; the memories are thrown out; the line rewinds and snaps forward on each 'again' with flashes of the future; 'forever again' recedes in a beat-stepped tunnel; a cold stop on 'Never'. Revised: calmer motion (lines drift and are unwritten, never float toward the viewer), a slow continuous tunnel, tally marks moved left. Web copy at 720p; the 1080p master passed QA and ffprobe."),

diff --git a/analysis/align.py b/analysis/align.py
@@ -154,6 +154,12 @@ def main():
         for t, s0, s1 in zip(ws, edges[:-1], edges[1:]):
             t.update(start=round(float(s0), 3), end=round(float(s1), 3),
                      matched=True, pinned=True)
+    # Word pins: {line: {word index: [start, end]}} where Whisper's word
+    # edges (each word ending where the next starts) swallow real gaps.
+    for ln, wmap in pins.get("words", {}).items():
+        ws = [t for t in C if t["line"] == int(ln)]
+        for wi, (a, b) in wmap.items():
+            ws[int(wi)].update(start=round(a, 3), end=round(b, 3), matched=True, pinned=True)
 
     # Per-line summary + gap report (backing vocals excluded from support).
     out_lines, gaps = [], []
